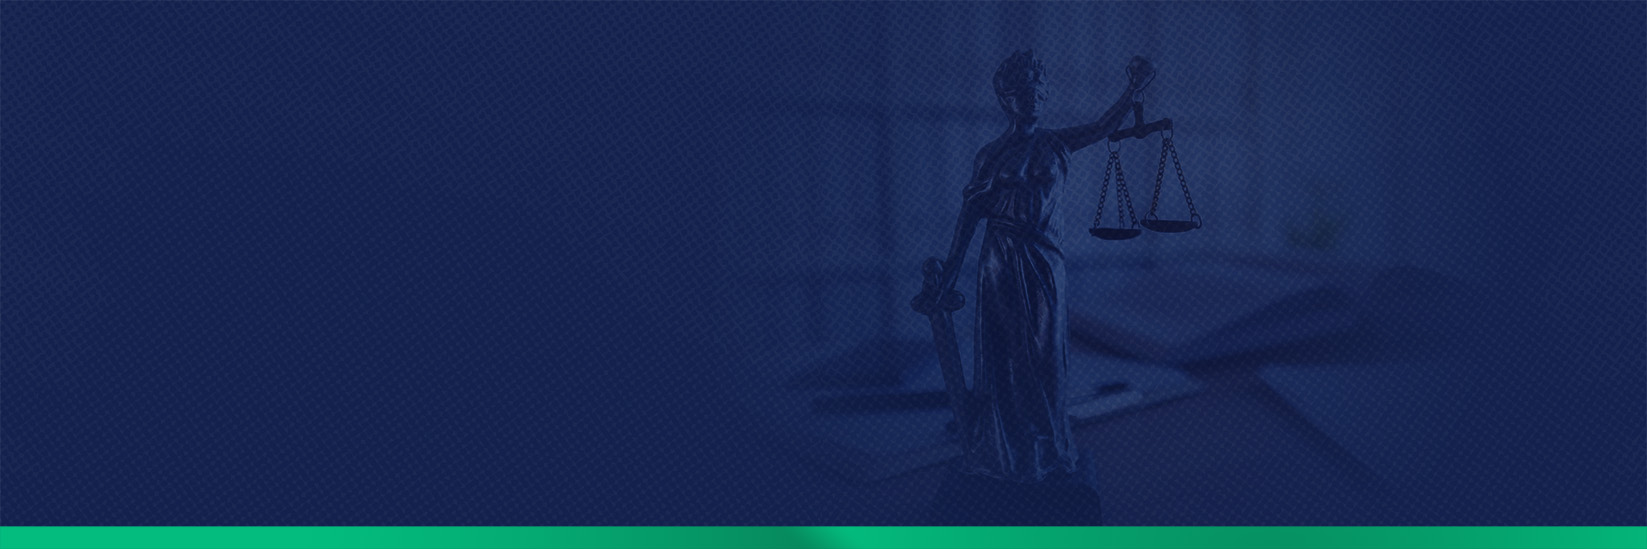
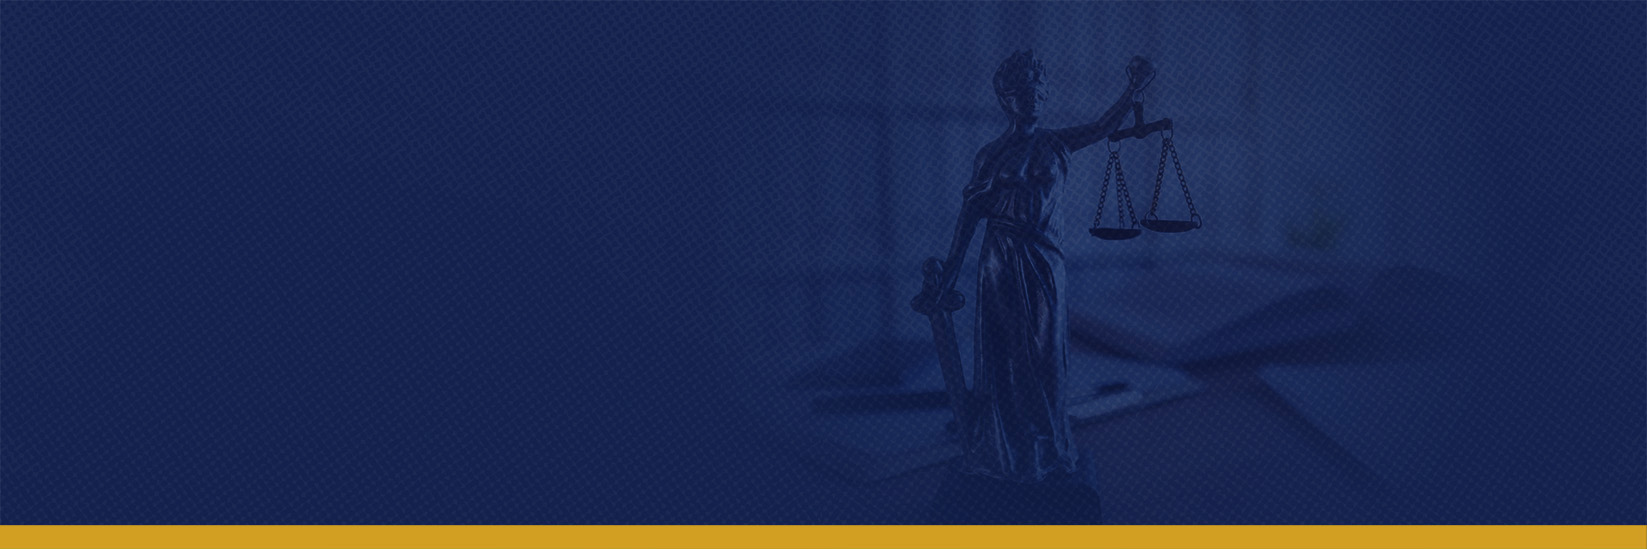
projeto finalizado

Changed region(s): [[0.0, 0.929, 1.0, 1.0]]

diff --git a/public/styles.css b/public/styles.css
@@ -1,79 +1,215 @@
 html,body{
     margin: 0;
     padding: 0;
-    font-family: -apple-system, BlinkMacSystemFont, 'Segoe UI', Roboto, Oxygen-Sans, Ubuntu, Cantarell,'Helvetica Neue', sans-serif   ;
-    background: url(img/background.jpg);
-    color: #FFF;
+    font-family: 'Raleway', sans-serif;
+    background-color: #15224f;
+    width: 100%;
 }
-.container {
-	height: 100vh;
-	position: relative;
+footer {
+    width: 100%;
+    height: 100%;
+    background-color: #FFF;
+    display: flex;
+    flex-direction:row;
+    align-items: center;
+    justify-content: center;
+}
+
+span {
+    font-weight: 900;
+    font-size:50px;
+    letter-spacing: 4px;
+}
+
+.container1 {
+    background-color: #00f3a1;
+    width: 100%;
+    height: 300px;
+    display: flex;
+    flex-direction:row;
+    justify-content: center;
+    border-bottom-left-radius: 35%;
+    border-bottom-right-radius: 35%;
+
+}
+.container2 {
+    background-color: #15224f;
+    position: relative;
+    width: 100%;
+    height: 400px;
+    display: flex;
+    flex-direction:row;
+    justify-content: center;
 }
 .titulo {
-    float: left;
+    color: #15224f;
+    font-size: 18px;
+    text-align:justify;
+    margin-top: 30px;
+    justify-content:center;
+}
+.titulo h1{
+    font-weight: 700;
+    letter-spacing: 2px;
+}
+.imagem {
+    float: right;
     margin-left: 200px;
-    text-align: center;
-    font-size: 24px;
 }
 .subtitulo {
-    text-transform: uppercase;
-    color:mediumaquamarine;
-    margin-left: 15%;
-    padding-top: 20%;
-    width: 500px
-}
-
-.imagem img{
-    float: right;
-    height: 400px;
-    width: 400px;
-    border-radius: 50%;
-    position: relative;
-    bottom: 400px;
-    margin-right: 100px;
-}
-
-.programa {
-    text-transform: uppercase;
-    text-align: center;
+    color: #FFF;
+    display: flex;
     align-items: center;
-    font-size: 20px;
-    margin-top: 10%;
+    margin-right: 200px;
+    justify-content:center;
+    font-size: smaller;    
 }
-.programa img{
-    filter: brightness(100);
-    height: 50px;
-    width: 300px;
-    margin-top: -20px;
+.subtitulo h2 {
+    font-weight: 500;
+    letter-spacing: 3.5px;
+}
+.programa {
+  display: flex;
+  align-items: center;
+  margin-bottom: -20px;
+}
+.logos{
+    display: flex;
+    align-items: center;
 }
 
-.logos {
-    position: relative;
-    float: right;
-    bottom: 150px;
-    left: 200px;
-}
-
-.acesso {
+.saiba-mais {
+    margin-bottom: 5px;
+    margin-left: 150px;
+    text-transform: uppercase;
     text-align: center;
-    position: absolute;
-    left: 300px;
+    color: #15224f;
 }
+.saiba-mais h4 {
+    font-weight: 900;
+    letter-spacing: 1.5px;
+}
+#seta1 {
+    float: right;
+    display: flex;
+    padding: 12px;
+    box-shadow: 3px -3px 0 1px #15224f inset;
+    border: solid transparent;
+    border-width: 0 0 20px 2px;
+    transform: rotate(225deg);
+  }
 
+#seta2 {
+    float: right;
+    display: flex;
+    padding: 12px;
+    box-shadow: 3px -3px 0 1px #15224f inset;
+    border: solid transparent;
+    border-width: 0 0 20px 2px;
+    transform: rotate(225deg);
+    margin-left: -10px;
+  }
+/*tamanho das imagens*/
+.img1 {
+    width: 100%;
+    height: 25em;
+}
+.img2 {
+    width: 10em;
+    height: 10em;
+}
+.img3 {
+    width: 100%;
+    height: 6em;
+}
+.img4 {
+    width: 100%;
+    height: 4em;
+    margin-bottom: -15px;
+    margin-left: 30px;
+}
 a:link {
-    color:#999999;
+    color:#15224f;
     text-decoration:none;
   }
   a:visited {
-    color:#999999;
+    color:#15224f;
     text-decoration:none;
   }
   a:hover {
-    color:#000000;
+    color:#00f3a1;
     text-decoration:underline;
   }
   a:active {
-    color:#00ff00;
+    color:#00f3a1;
     text-decoration:underline;
     background-color:#000000;
+  }
+
+  /* RESPONSIVIDADE */
+
+  @media screen and (max-width: 820px){
+    .titulo {
+        text-align: center;
+        margin-left: 5%;
+        width: 100%;
+    }
+    .imagem {
+       width: 50%;
+       margin-left: 0px;
+    }
+    .subtitulo {
+        margin-left: 100px;
+        margin-right: 0px;
+        
+    }
+  }
+
+  @media screen and (max-width: 600px){
+    .container2 {
+        margin-top: -10px;
+    }
+    .titulo {
+        font-size: 12px;
+        text-align:center;
+        margin-top: 50px;
+        justify-content:center;
+    }
+    span {
+        font-weight: 900;
+        font-size:28px;
+        letter-spacing: 4px;
+    }
+    .img1 {
+       margin-top: 50px;
+       width: 100%;
+       height: 100%;
+       margin-left: 0px;
+    }
+    .subtitulo {
+        margin-left: 0px;
+        margin-right: 0px;
+        
+    }
+    .img3 {
+    width: 100%;
+    height: 7em;
+    }
+    .img4 {
+    width: 100%;
+    height: 4em;
+    margin-bottom: 0px;
+    margin-top: 10px;
+    }
+    .saiba-mais {
+        margin-bottom: 5px;
+        margin-left: 0px;
+        text-transform: uppercase;
+        text-align: center;
+        color: #15224f;
+    }
+    footer {
+        flex-direction: row;
+        flex-wrap: wrap;
+    }
   }

diff --git a/index.html b/index.html
@@ -4,34 +4,42 @@
     <meta charset="UTF-8">
     <meta name="viewport" content="width=device-width, initial-scale=1.0">
     <link rel="stylesheet" href="public/styles.css">
-    <link rel='stylesheet' id='google-fonts-1-css'  href='https://fonts.googleapis.com/css?family=Roboto%3A100%2C100italic%2C200%2C200italic%2C300%2C300italic%2C400%2C400italic%2C500%2C500italic%2C600%2C600italic%2C700%2C700italic%2C800%2C800italic%2C900%2C900italic%7CRoboto+Slab%3A100%2C100italic%2C200%2C200italic%2C300%2C300italic%2C400%2C400italic%2C500%2C500italic%2C600%2C600italic%2C700%2C700italic%2C800%2C800italic%2C900%2C900italic%7CCairo%3A100%2C100italic%2C200%2C200italic%2C300%2C300italic%2C400%2C400italic%2C500%2C500italic%2C600%2C600italic%2C700%2C700italic%2C800%2C800italic%2C900%2C900italic&#038;display=auto&#038;ver=5.9.3' media='all' />
+    <link rel="preconnect" href="https://fonts.googleapis.com">
+    <link rel="preconnect" href="https://fonts.gstatic.com" crossorigin>
+    <link href="https://fonts.googleapis.com/css2?family=Raleway:wght@400;500;900&display=swap" rel="stylesheet">
     <title>eParcela</title>
 </head>
 <body>
-    <div class="container">
+    <div class="container1">
         <div class="titulo">
-            <h1>Quer saber como receber </br> seus honorários de forma </br> inovadora?
+            <h1>Quer saber como</br> receber seus</br> <span>honorários</span></br> de forma inovadora?
             </h1>
-        </div>
-        <div class="subtitulo">
-            <h2>Seu cliente paga os honorários</br> parcelados em até 12x no cartão e</br> você recebe o valor integral.</br> 
-                sem descontos, sem burocracia, logo</br> no dia seguinte em sua conta.
-                </h2>
-        </div>
+        </div>     
         <div class="imagem">
-            <img src="public/img/Imagem1.png" alt="maquina de cartao">
+            <img class = "img1" src="public/img/MULHER.png" alt="mulher">
         </div>
-        <div class="programa">
-            <h3>Conheça o programa </br></h3>
-            <img src="public/img/logo_eParcela.png" alt="logo eParcela">
-        </div>
-        <div class="logos">
-            <img src="public/img/logos2.png" alt="logos">
-        </div>
-        <div class="acesso">
-            <h2>Clique <a href="https://oabpi.agilecorporation.com.br">aqui</a> e saiba mais.
+
+    </div>
+    <div class="container2">
+        <div class="subtitulo">
+            <img class="img2" src="public/img/MÃO COM CARTÃO.png" alt="mao cartao">
+            <h2>Seu cliente paga os honorários parcelados</br> em até 12x no cartão</br> e você recebe o valor integral.</br> 
+                Sem descontos, sem burocracia,</br> logo no dia seguinte</br> em sua conta.
                 </h2>
         </div>
     </div>
+    <footer>
+        <div class="programa">
+            <img class = "img3" src="public/img/ePARCELA.png" alt="logo eParcela">
+        </div>
+        <div class="logos">
+            <img class = "img4" src="public/img/logo_oab_esa.png" alt="logo oab">
+        </div>
+        <div class="saiba-mais">
+            <h4><a href="https://oabpi.agilecorporation.com.br" target="_blank"> Clique </br> aqui e saiba mais</a></h4>
+        </div>
+        <div id="seta1"></div>
+        <div id="seta2"></div>
+    </footer>
 </body>
 </html>
